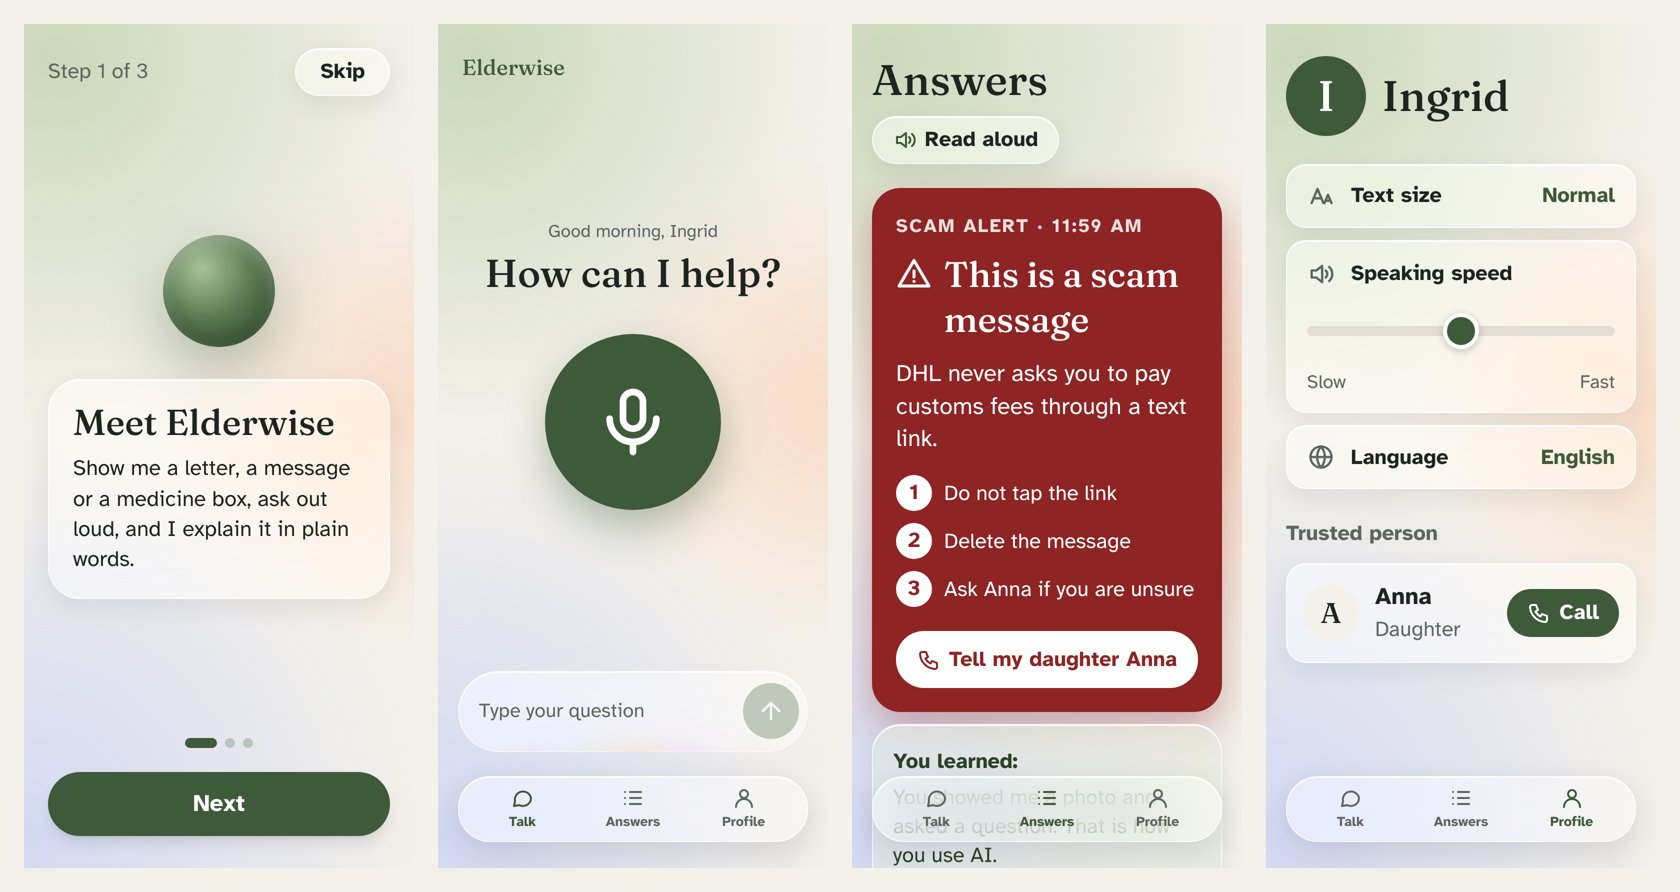
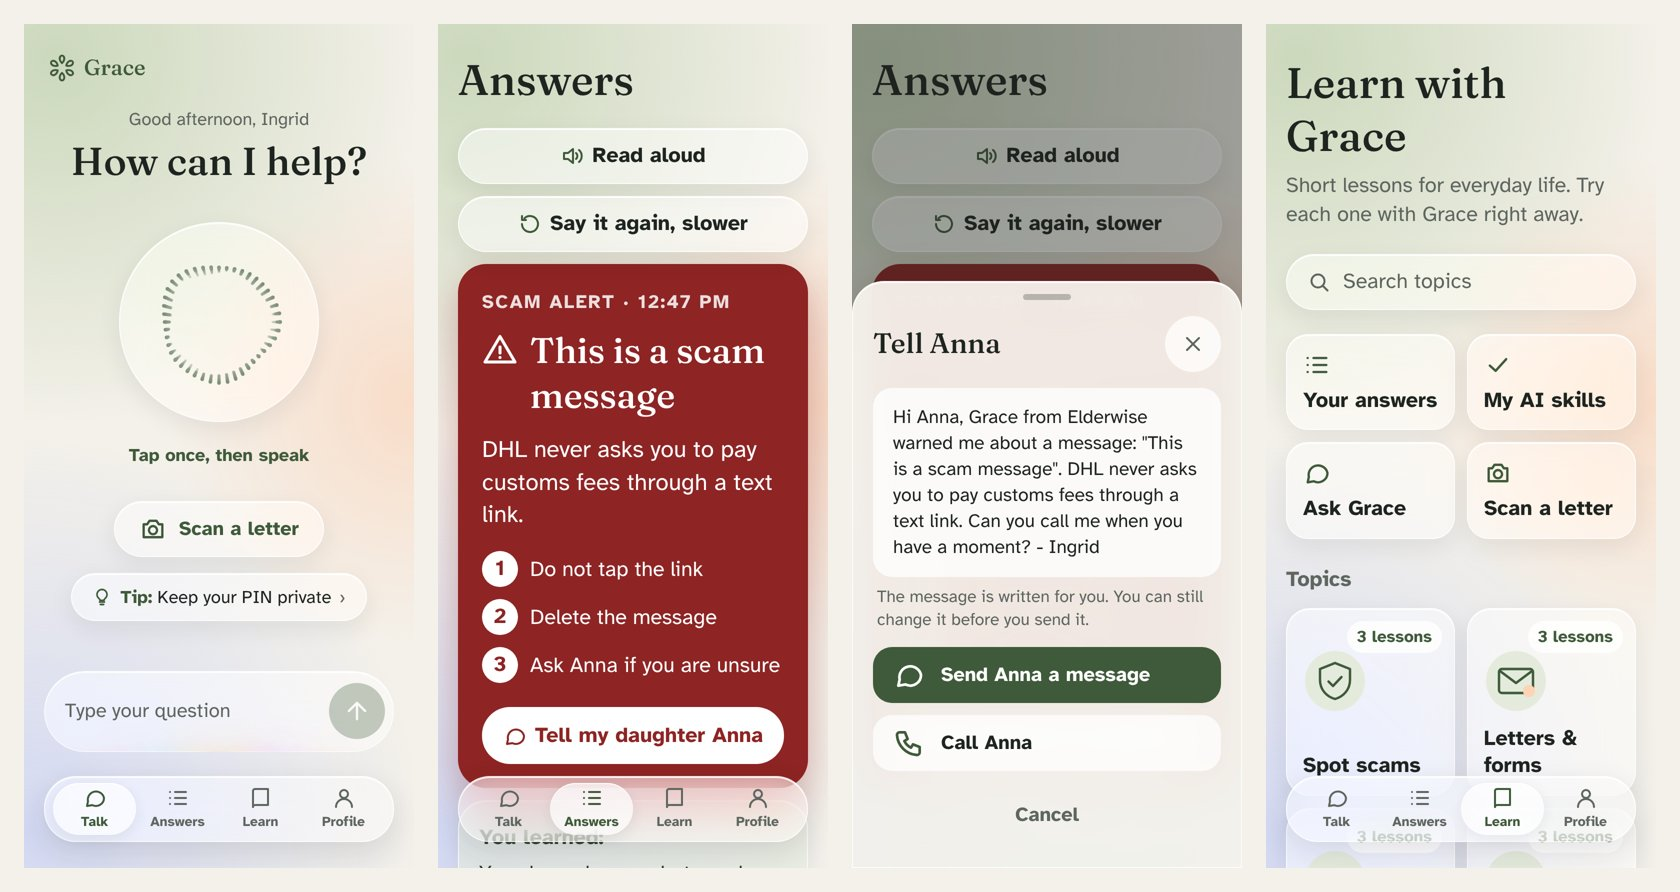
README and video script match the current app; Tell Anna names Grace
- README: four tabs (Learn), live words, hands-free Grace, the ready-written
  message to Anna; fresh screenshots (Talk, scam alert, Tell Anna, Learn).
- docs/demo-script.md: updated scene with live words, Tell Anna message
  and the Learn tab.
- Tell Anna message says "Grace from Elderwise" (the assistant's current
  name) instead of "Elderwise".

Claude-Session: https://claude.ai/code/session_01FWhTsLWmHQxZdcXTwZ9Hw3

diff --git a/components/TellTrustedButton.tsx b/components/TellTrustedButton.tsx
@@ -1,6 +1,7 @@
 "use client";
 
 import { useState } from "react";
+import { useAssistant } from "@/lib/assistant";
 import { useProfile } from "@/lib/profile";
 import type { Answer, Lang } from "@/prompts/elderwise";
 import { GlassSheet } from "./GlassSheet";
@@ -15,7 +16,7 @@ const COPY: Record<Lang, {
   call: (name: string) => string;
   cancel: string;
   hint: string;
-  text: (a: { trusted: string; me: string; headline: string; sentence: string; warning: boolean }) => string;
+  text: (a: { trusted: string; me: string; helper: string; headline: string; sentence: string; warning: boolean }) => string;
 }> = {
   en: {
     title: (n) => `Tell ${n}`,
@@ -24,8 +25,8 @@ const COPY: Record<Lang, {
     call: (n) => `Call ${n}`,
     cancel: "Cancel",
     hint: "The message is written for you. You can still change it before you send it.",
-    text: ({ trusted, me, headline, sentence, warning }) =>
-      `Hi ${trusted}, ${warning ? "Elderwise warned me about a message" : "I asked Elderwise for help"}: "${headline}". ${sentence} Can you call me when you have a moment? - ${me}`,
+    text: ({ trusted, me, helper, headline, sentence, warning }) =>
+      `Hi ${trusted}, ${warning ? `${helper} from Elderwise warned me about a message` : `I asked ${helper} from Elderwise for help`}: "${headline}". ${sentence} Can you call me when you have a moment? - ${me}`,
   },
   de: {
     title: (n) => `${n} Bescheid geben`,
@@ -34,8 +35,8 @@ const COPY: Record<Lang, {
     call: (n) => `${n} anrufen`,
     cancel: "Abbrechen",
     hint: "Die Nachricht ist schon geschrieben. Sie können sie vor dem Senden noch ändern.",
-    text: ({ trusted, me, headline, sentence, warning }) =>
-      `Hallo ${trusted}, ${warning ? "Elderwise hat mich vor einer Nachricht gewarnt" : "ich habe Elderwise um Hilfe gebeten"}: „${headline}“. ${sentence} Kannst du mich anrufen, wenn du Zeit hast? - ${me}`,
+    text: ({ trusted, me, helper, headline, sentence, warning }) =>
+      `Hallo ${trusted}, ${warning ? `${helper} von Elderwise hat mich vor einer Nachricht gewarnt` : `ich habe ${helper} von Elderwise um Hilfe gebeten`}: „${headline}“. ${sentence} Kannst du mich anrufen, wenn du Zeit hast? - ${me}`,
   },
 };
 
@@ -43,11 +44,12 @@ const COPY: Record<Lang, {
 // with the text already written from the answer. Name and number come from the Profile tab.
 export function TellTrustedButton({ answer, label, warning }: Props) {
   const profile = useProfile();
+  const helper = useAssistant().name;
   const c = COPY[profile.lang];
   const [open, setOpen] = useState(false);
   const trusted = profile.trusted.name;
   const phone = profile.trusted.phone.replace(/[^\d+]/g, "");
-  const text = c.text({ trusted, me: profile.name, headline: answer.headline, sentence: answer.sentence, warning });
+  const text = c.text({ trusted, me: profile.name, helper, headline: answer.headline, sentence: answer.sentence, warning });
   const canShare = typeof navigator !== "undefined" && "share" in navigator;
 
   const big = "flex min-h-14 w-full items-center gap-4 rounded-2xl px-5 py-3 text-left text-[20px] font-bold";

diff --git a/README.md b/README.md
@@ -2,7 +2,7 @@
 
 **Try it:** https://elderwise-beryl.vercel.app (best on a phone; tap Share → Add to Home Screen on iPhone)
 
-![Grace: welcome, Talk, Answers and Profile screens](docs/screenshots.jpg)
+![Grace: Talk, a scam alert, the ready-written message to Anna, and the Learn tab](docs/screenshots.jpg)
 
 **One line:** a patient voice AI companion for older adults: say what you need (and show a photo if you like), and get a simple visual answer that is read aloud, plus one AI skill learned each time.
 
@@ -11,11 +11,12 @@
 - **What the demo lets them do:** press one button, ask out loud about a letter, text message or appointment, and get a big, calm answer card with a "You learned" tip.
 
 ## What it does
-A short welcome (calm, skippable screens, ending with an optional free account), then three tabs and one guided flow, nothing more:
-- **Talk:** "How can I help?" and one big microphone button. Tap it and speak; the live transcript shows while Grace listens and the screen glows with your voice. Prefer typing? Use the bar above the tab bar. The camera opens an "Add a photo" sheet: take a photo, or pick one of 5 example photos (parcel scam SMS, "Hi Grandma" WhatsApp scam, doctor's letter, medicine box, pension letter).
+A short welcome (calm, skippable screens, ending with an optional free account), then four tabs and one guided flow, nothing more:
+- **Talk:** "How can I help?" and one big talking orb: "Tap once, then speak" (holding it works too). Grace, the assistant, has a natural hands-free conversation, and while you speak the **last 3 words you said appear very big**, so you can see that Grace really hears you. Below the orb sits an AI tip of the day. Prefer typing? Use the bar above the tab bar. The camera opens an "Add a photo" sheet: take a photo, or pick one of 5 example photos (parcel scam SMS, "Hi Grandma" WhatsApp scam, doctor's letter, medicine box, pension letter).
 - **Scan a letter:** a guided flow from the Talk screen (the "Scan a letter" button, or the camera sheet). Photograph or upload a letter or bill, or try an example, then watch it being read and see the key facts and a plain explanation. It also scans QR codes and barcodes, including GiroCode payments, with a scam check.
-- **Answers:** the newest answer as one big visual card: a deep red scam alert, an explanation, steps or a reminder, with up to 3 numbered points and an optional "Tell my daughter Anna" call button. Every answer is read aloud and ends with a "You learned" card that names the AI skill just used. Older answers are listed below and open full screen; "Clear history" at the bottom.
-- **Profile:** text size (the whole app grows, nothing gets cut off), speaking speed, language (English or German), the trusted person with a call button, and your account.
+- **Answers:** the newest answer as one big visual card: a deep red scam alert, an explanation, steps or a reminder, with up to 3 numbered points. On a scam alert, **"Tell my daughter Anna"** opens a ready-written message to the trusted person (SMS, WhatsApp/share or a call), so the family knows in one tap. Every answer is read aloud and ends with a "You learned" card that names the AI skill just used. Older answers are listed below and open full screen; "Clear history" at the bottom.
+- **Learn:** "Learn with Grace", 8 everyday topics (like spotting scams, letters and forms) with 24 short lessons you can try with Grace right away, plus "My AI skills".
+- **Profile:** text size (the whole app grows, nothing gets cut off), speaking speed, language (English or German), the assistant's name, voice and personality, the trusted person (editable) and your account.
 
 **Accounts (optional):** create a free account with email and password (`/signup`, `/signin`) and your answers and settings are saved in it, so they come back after signing in on any phone.
 "Continue without account" is always there; without an account everything stays in the browser.

diff --git a/docs/demo-script.md b/docs/demo-script.md
@@ -14,17 +14,18 @@ One person speaks, one person holds the phone. Do one full rehearsal, then recor
 | Time | On screen | Say |
 |---|---|---|
 | 0:00 - 0:15 | Title or the Talk screen | "880 million people are over 65. AI could help them every day, but almost none of them use it: every AI app expects you to read dense screens and type well. And scammers already use AI against them." |
-| 0:15 - 0:25 | Talk screen, big mic button | "This is Elderwise. One button. You just say what you need. Meet Ingrid, 78." |
-| 0:25 - 0:40 | Camera → "Add a photo" → example **Parcel text message** | "Ingrid got a text: her parcel is held and she should pay a small fee via a link. She takes a photo of it." |
-| 0:40 - 1:00 | Tap the mic, ask out loud: **"Is this message real?"** The screen glows with the voice, then Claude thinks | "She taps the button and asks, out loud, like she would ask a person. Claude reads the photo and her question." |
-| 1:00 - 1:25 | Answers: the deep red **scam alert** card, read aloud | Let the app read the answer aloud for a few seconds, then: "One clear answer, three simple steps, read aloud in a calm voice. And one tap tells her daughter Anna." |
-| 1:25 - 1:40 | Scroll to the **You learned** card | "Every answer teaches one AI skill. Ingrid just learned that she can ask AI to check any message, letter or email. That is how she learns AI: by using it." |
-| 1:40 - 1:52 | Profile: switch text size to **Extra large**, then **Deutsch**; show Answers again | "Made for older eyes and ears: bigger text without breaking the screen, slower speech, English or German, and a trusted person one tap away." |
+| 0:15 - 0:25 | Talk screen: "How can I help?", the big orb | "This is Elderwise, with Grace, a patient AI helper. One button: tap once, then just say what you need. Meet Ingrid, 78." |
+| 0:25 - 0:45 | Tap the orb and ask out loud: **"Is this message real?"** The last words appear very big while she speaks. Tap **Start camera** → "Try an example" → **Parcel text message** → **Done talking** | "Ingrid got a text: her parcel is held, she should pay a small fee via a link. She asks out loud, like she would ask a person, and sees every word she says, big, so she knows Grace is listening. Then she shows Grace the message." |
+| 0:45 - 1:10 | Answers: the deep red **scam alert**, read aloud | Let it read aloud for a few seconds, then: "Claude reads the photo and her question. One clear answer, three simple steps, in a calm voice." |
+| 1:10 - 1:25 | Tap **Tell my daughter Anna** → the ready-written message → **Send Anna a message** (the SMS app opens) | "And the most important part: one tap, and her daughter Anna knows. The message is already written for her." |
+| 1:25 - 1:40 | Back on Answers, scroll to **You learned**, then open the **Learn** tab | "Every answer teaches one AI skill. And in Learn, short lessons she can try with Grace right away. That is how Ingrid learns AI: by using it." |
+| 1:40 - 1:52 | Profile: text size **Extra large**, then **Deutsch**; show Talk again | "Made for older eyes and ears: bigger text without breaking the screen, slower speech, English or German." |
 | 1:52 - 2:00 | Talk screen | "Elderwise. AI that adapts to people, not the other way round. Built today with Claude." |
 
 ## If something goes wrong
 - No microphone (plain http, or denied): type the question in the bar above the tab bar instead. It works the same.
 - Claude is slow: keep talking over the "thinking" glow; cut the wait in editing if you can.
+- The SMS app opens on a real phone: that is fine, show it for a second and go back. Don't send it.
 - Wrong or odd answer: just record again. Use the same example photo; it gives the most reliable demo.
 
 ## After recording
